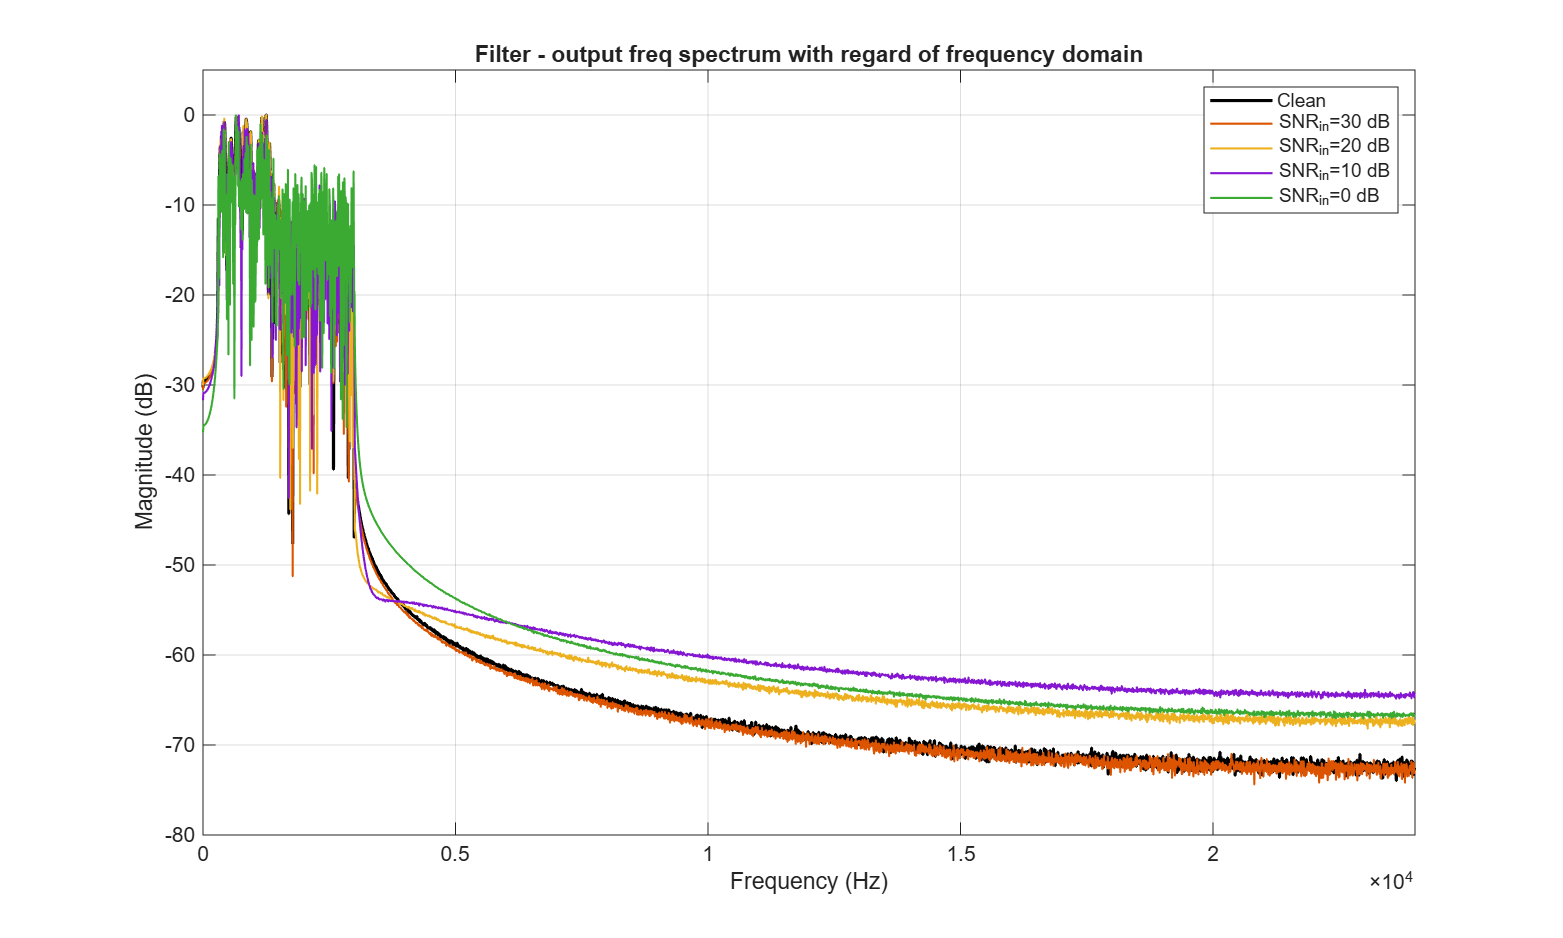
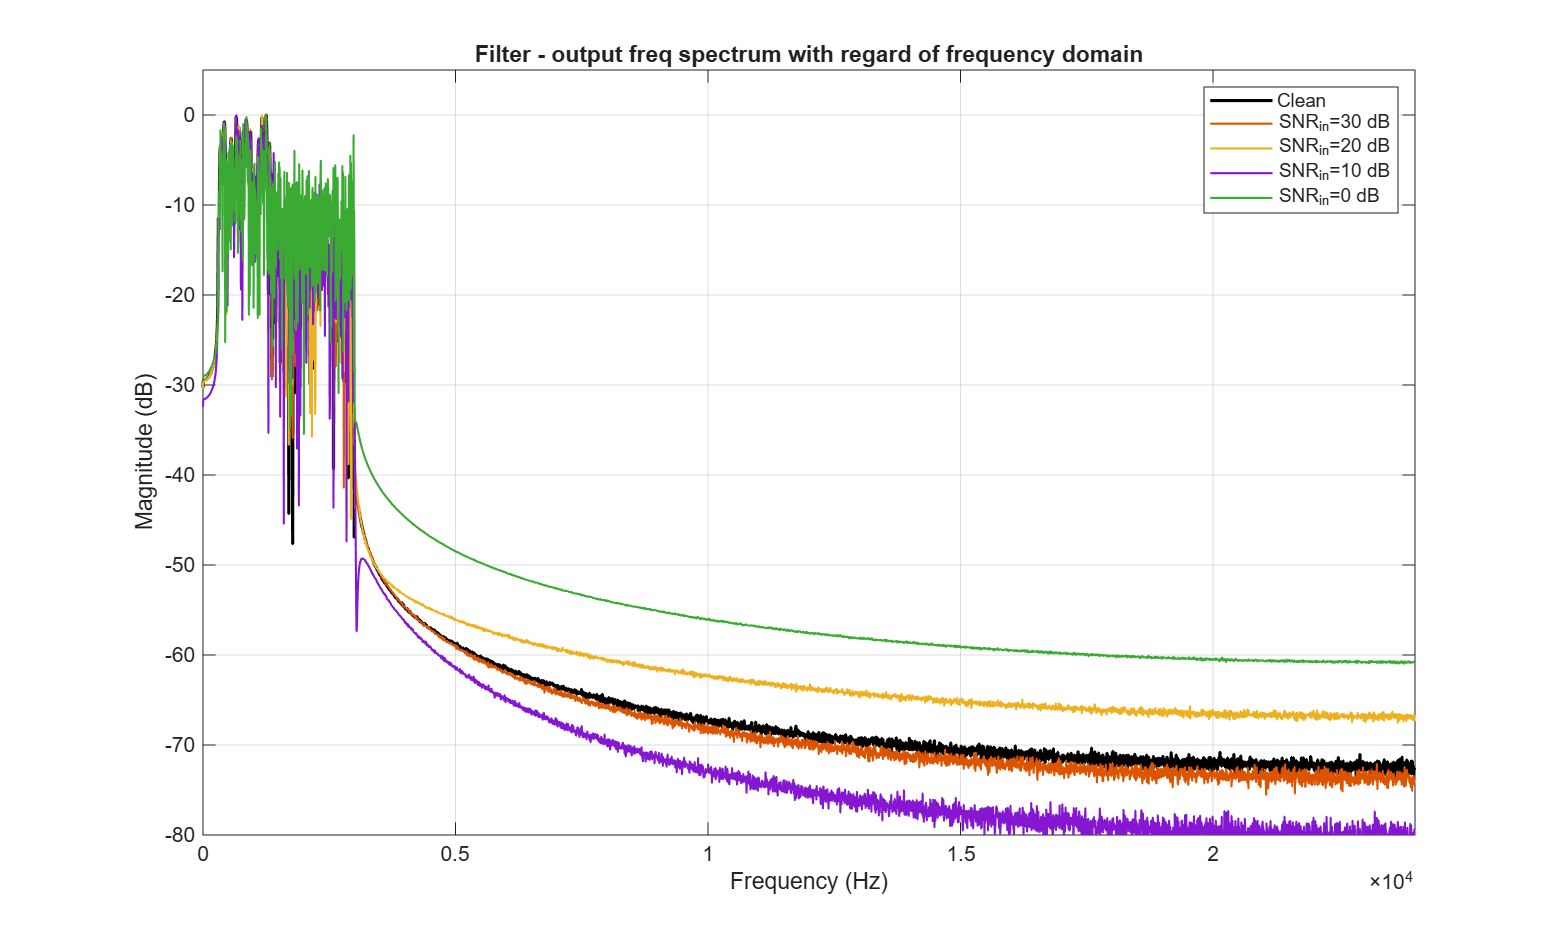
去掉preprocessing里面的降噪

Changed region(s): [[0.1228, 0.1237, 0.9213, 0.8966], [0.3071, 0.5874, 0.3378, 0.6183]]

diff --git a/preprocessing.m b/preprocessing.m
@@ -1,64 +1,9 @@
-% This is a function to convert .m4a files to .wav and perform simple noise reduction using DFT.
-function [output, fs] = preprocessing(inputFile, noiseGateThreshold)
-    [~, ~, ext] = fileparts(inputFile);
-    if strcmpi(ext, '.m4a')
-        fprintf('Converting %s to WAV...\n', inputFile);
-        [audio, fs] = audioread(inputFile);
-        wavFile = strrep(inputFile, ext, '.wav');
-        audiowrite(wavFile, audio, fs);
-        fprintf('Saved as: %s\n', wavFile);
-        inputFile = wavFile;
-    end
-
+% This is a function to convert .m4a files to .wav
+function [output, fs] = preprocessing(inputFile)
     [audio, fs] = audioread(inputFile);
-    if size(audio, 2) > 1
-        audio = mean(audio, 2);
-    end
-
-    peakIn = max(abs(audio));
-    if peakIn > 0
-        audio = audio / peakIn;
-    end
-
-    windowSize = 2048;
-    hopSize = windowSize / 2;
-    window = hann(windowSize, 'periodic');
-    audioPadded = [audio; zeros(windowSize, 1)];
-    numFrames = floor((length(audioPadded) - windowSize) / hopSize) + 1;
-
-    X = zeros(windowSize, numFrames);
-    for k = 1:numFrames
-        idx = (k-1) * hopSize + (1:windowSize);
-        frame = audioPadded(idx) .* window;
-        X(:, k) = fft(frame);
-    end
-
-    mag = abs(X);
-    phase = angle(X);
-    noiseFloor = median(mag, 2);
-    magClean = max(mag - noiseFloor * (1 + noiseGateThreshold), 0);
-
-    XClean = magClean .* exp(1j * phase);
-    out = zeros(size(audioPadded));
-    weight = zeros(size(audioPadded));
-
-    for k = 1:numFrames
-        idx = (k-1) * hopSize + (1:windowSize);
-        frameOut = real(ifft(XClean(:, k))) .* window;
-        out(idx) = out(idx) + frameOut;
-        weight(idx) = weight(idx) + window.^2;
-    end
-
-    output = out(1:length(audio)) ./ (weight(1:length(audio)) + eps);
-    if max(abs(output)) > 0
-        output = output * peakIn / max(abs(output));
-    end
-    % optional post-normalization volume boost (1.0 = no boost)
-    volumeBoost = 500.0;
-    output = output * volumeBoost;
-    % hard clip to [-1,1] to avoid overflow when writing audio
-    output(output>1) = 1;
-    output(output<-1) = -1;
-
-    fprintf('Noise reduction completed (threshold = %.3f, boost=%.2f)\n', noiseGateThreshold, volumeBoost);
+    [folder, name, ~] = fileparts(inputFile);
+    wavFile = fullfile(folder, [name, '.wav']);
+    audiowrite(wavFile, audio, fs);
+    fprintf('Saved as: %s\n', wavFile);
+    output = wavFile;
 end